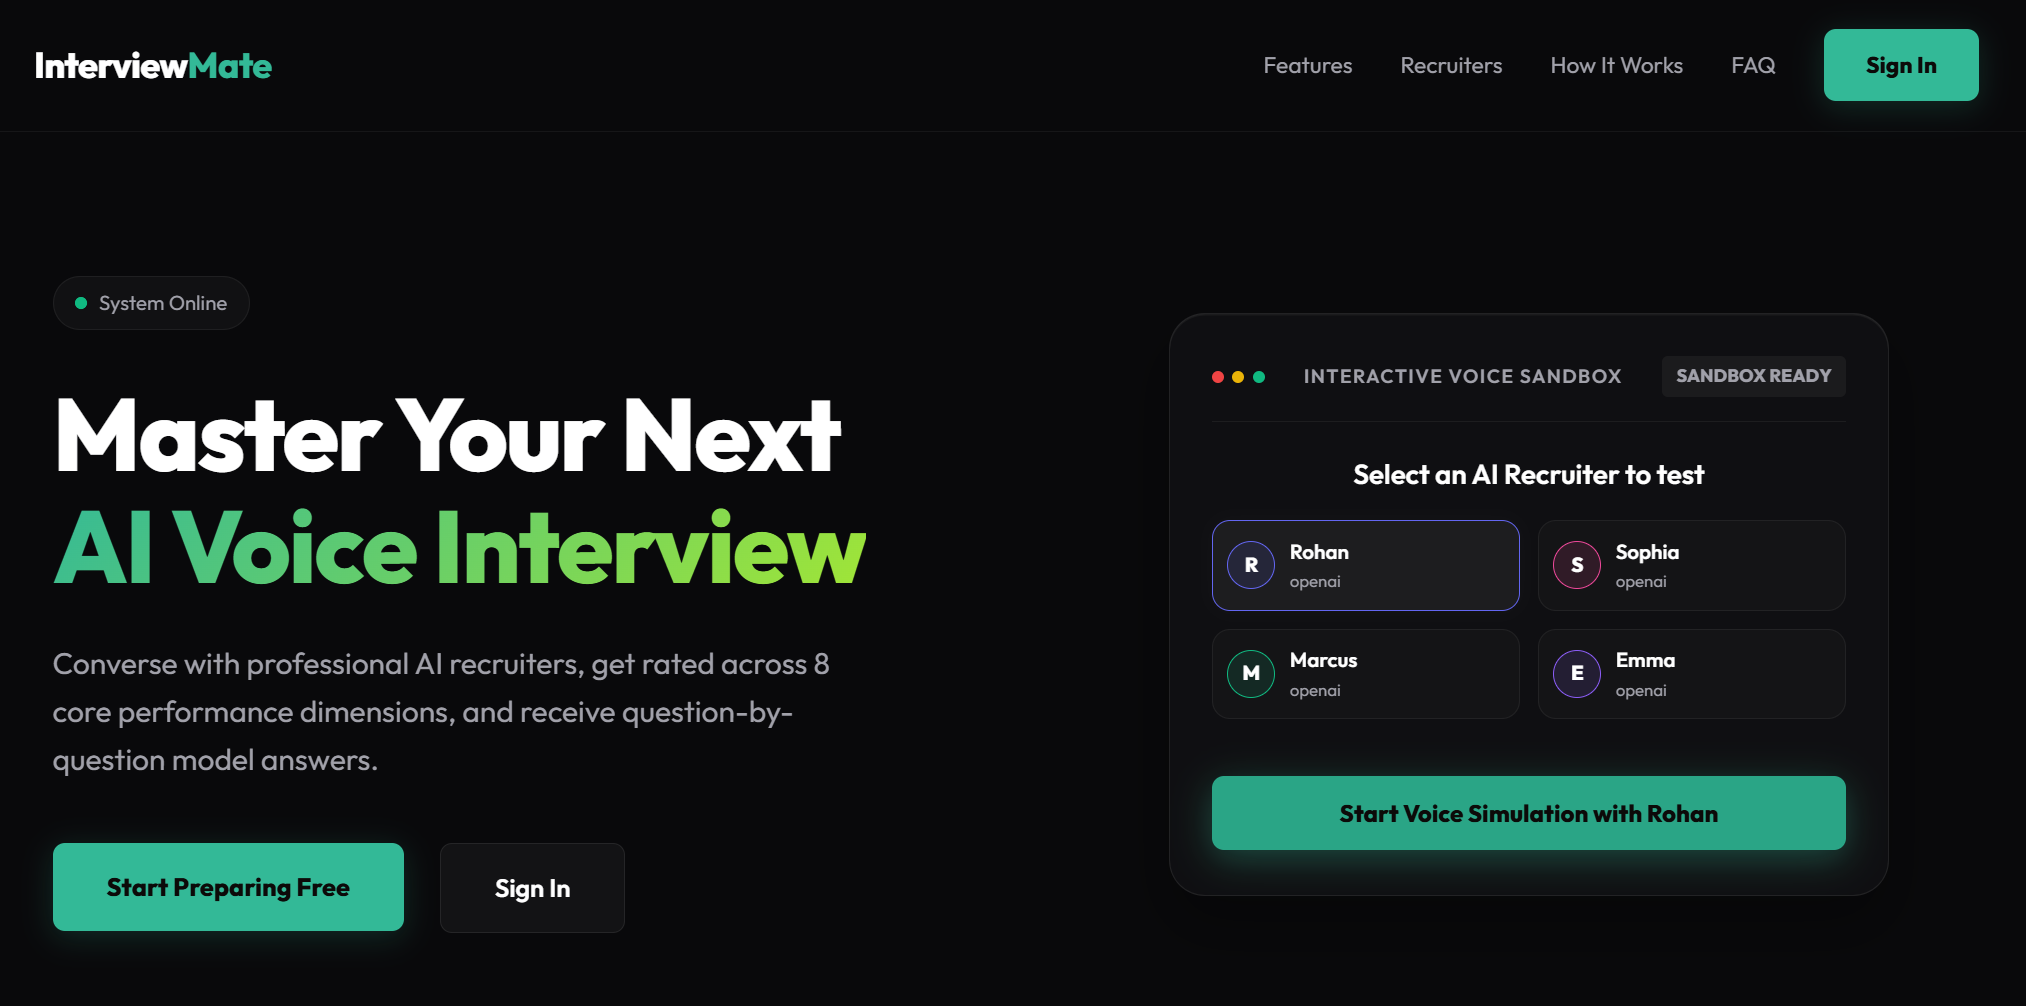
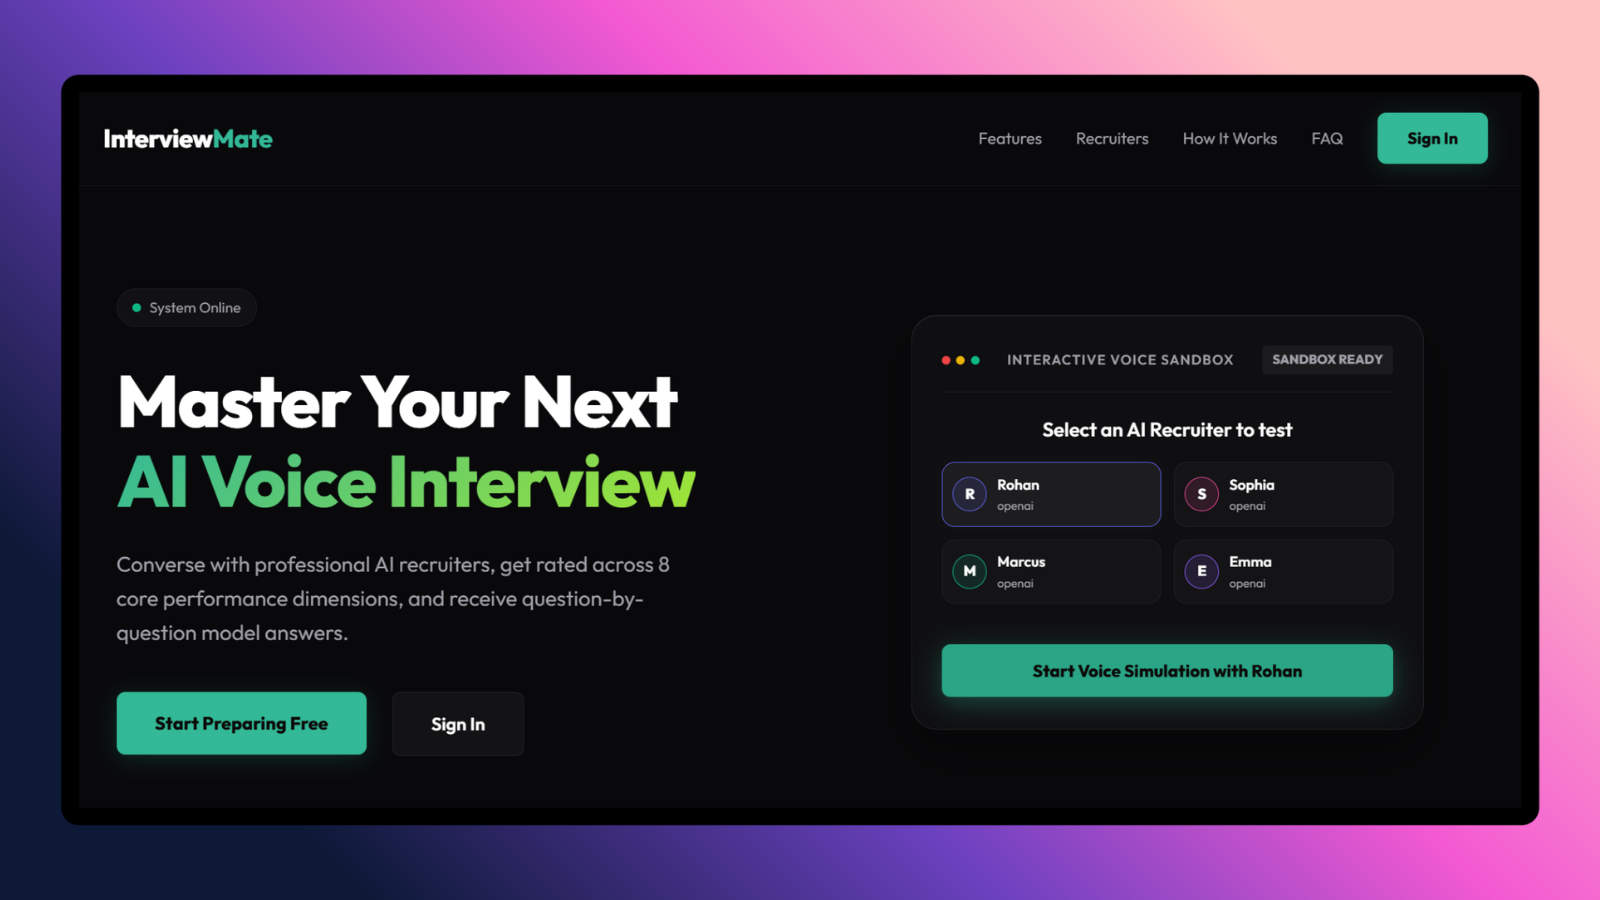
feat: update InterviewMate project details and images, including new live link

diff --git a/src/config/Projects.tsx b/src/config/Projects.tsx
@@ -56,9 +56,9 @@ export const projects: Project[] = [
   {
     title: 'Interviewmate',
     description:
-      'Real-time AI interview simulation platform using WebSockets, streaming speech-to-text, and adaptive questioning for human-like interview practice.',
-    image: '/project/interviewmate-hero.pmg',
-    link: 'https://github.com/sultanxdev/interviewmate',
+      'InterviewMate is an AI-powered mock interview platform that lets users practice realistic interviews through live voice conversations...',
+    image: '/project/interviewmate-hero.png',
+    link: 'https://interviewmate-xi.vercel.app/',
     technologies: [
       { name: 'React', icon: <ReactIcon key="react" /> },
       { name: 'Node.js', icon: <NodeJs key="nodejs" /> },
@@ -74,7 +74,7 @@ export const projects: Project[] = [
       { name: 'Render', icon: <Render key="render" /> },
     ],
     github: 'https://github.com/sultanxdev/interviewmate',
-    live: 'https://interviewmate.sultanx.dev',
+    live: 'https://interviewmate-xi.vercel.app/',
     details: true,
     projectDetailsPageSlug: '/projects/interviewmate',
     isWorking: true,
